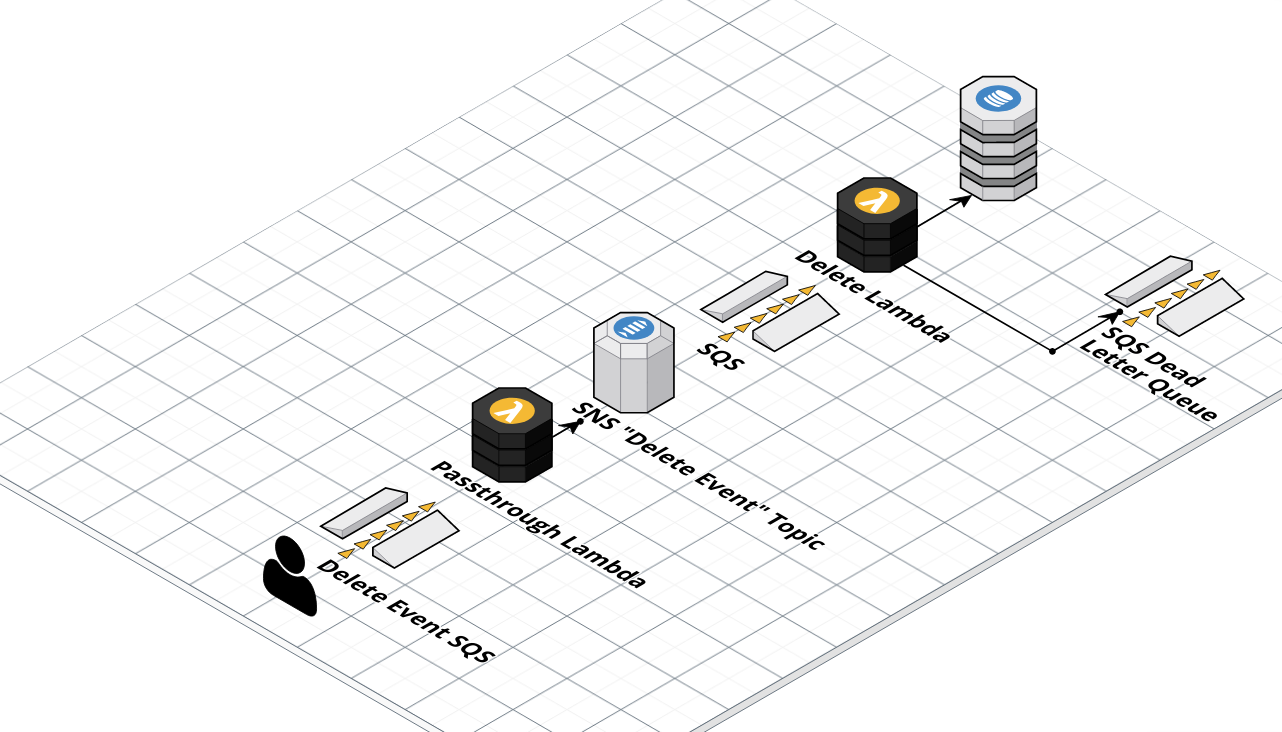
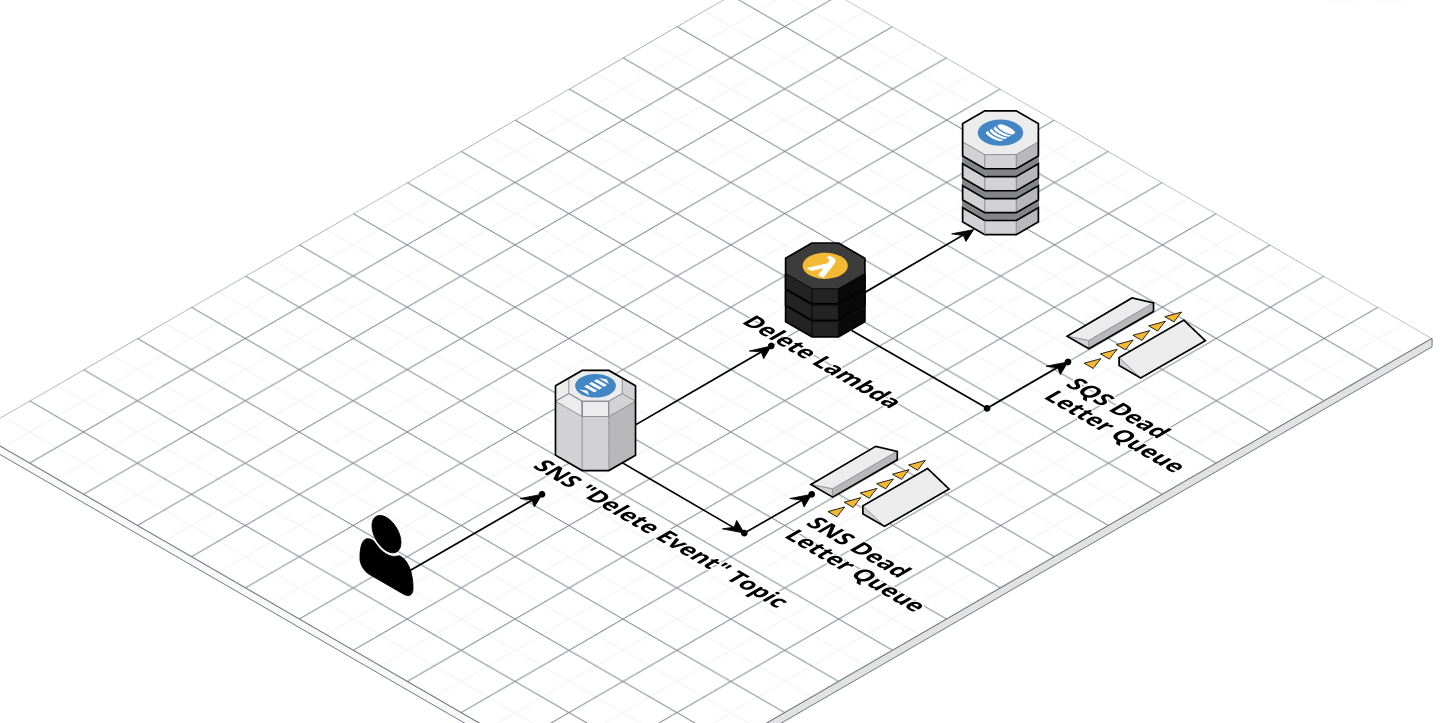
BAU: Update Architectural Diagram to reflect new plan
After starting work on [1] and [2] we realised the passthrough lambdas
weren't really offering us much value, so we've removed them here.

The theory initially was that we'd want an SQS queue, and a scalable
lambda allow us to efficently write to the SNS topic. We don't think
that's true anymore. We should be able to write directly from the
fargate containers, which themselves can scale horizontally, and we
don't expect to hit a bottleneck here.

So let's remove a few components and simplify things a bit

[1]: https://github.com/alphagov/di-account-management-backend/pull/36
[2]: https://github.com/alphagov/di-account-management-backend/pull/38

diff --git a/docs/adr/0005-deleting-service-usage-in-account.md b/docs/adr/0005-deleting-service-usage-in-account.md
@@ -18,22 +18,23 @@ We must ensure that when a user deletes their account their service data is also
 
 ## Decision
 
-We will set up a serverless infrastructure, triggered upon a user deleting their account.
+We will set up an SNS topic for a delete event, triggered upon a user deleting their account.
 
 The event will contain a user_id matching the desired record in the data store.
 
-We will write through a series of queues to a lambda which will issue a delete command for that record.
+Failure of the SNS queue to deliver an event to subscribers will invoke an [SNS Dead Letter queue](https://docs.aws.amazon.com/sns/latest/dg/sns-dead-letter-queues.html).
+
+We will subscribe a lambda to the topic which will issue a delete command for the relevant record.
 
 Failure of the delete lambda will lead to the population of a dead letter queue, triggering an alert.
 
-We have decided to add complexity with an SNS Queue and components needed to populate it.
-Whilst this feature will be the sole consumer of delete events, we recognise other stores of user data may appear around the program. Using SNS means others can choose to subscribe to this event in future for their own actions.
+Whilst this feature will be the sole consumer of the SNS delete topic, we recognise other stores of user data may appear around the program. Using SNS means others can choose to subscribe to this event in future for their own actions.
 
 Alternatively the SNS component could be delegated to another account in future, perhaps TxMA.
 
 ### Diagram
 
-![Architecture diagram showing a delete event, passing through SNS to a lambda and ending at a dynamoDB or a dead letter queue](./images/2022-Delete-Account-Data.png)
+![Architecture diagram showing a delete event recorded as an SNS Topic, notifying a subscribing lambda, and deleting an item from a dynamoDB or a dead letter queue](./images/2022-Delete-Account-Data.png)
 
 ## Other options considered
 
